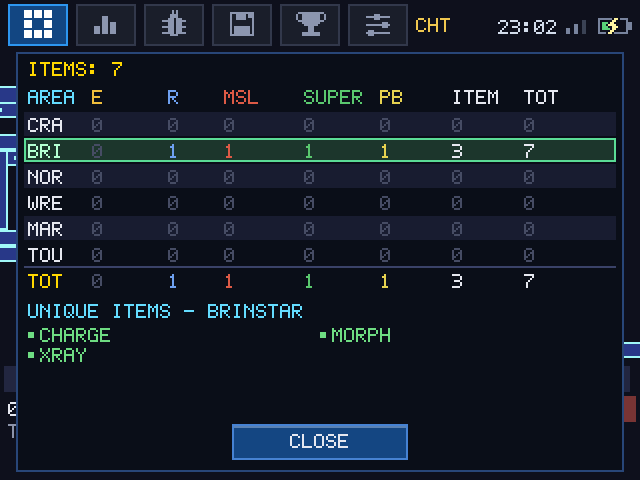
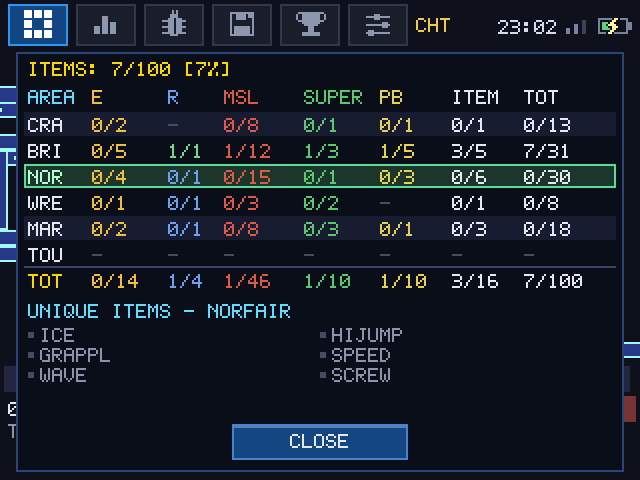
docs: update collected items screenshot with SPOILERS mode enabled

diff --git a/README.md b/README.md
@@ -34,7 +34,7 @@ Features **full stereoscopic 3D with per-layer depth** and **widescreen gameplay
 |:---:|:---:|
 | ![Gameplay Wide](screenshots/gameplay_wide.png) | ![Status Tab](screenshots/bottom_status.png) |
 
-| Interactive Map & Tracker | Collected Items Window |
+| Interactive Map & Tracker | Collected Items Tracker (SPOILERS Mode) |
 |:---:|:---:|
 | ![Map Tab](screenshots/bottom_map.png) | ![Items Tracker](screenshots/bottom_items_tracker.png) |
 
